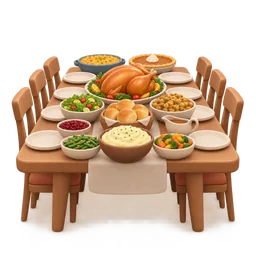
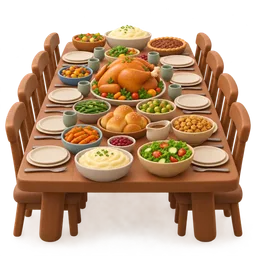
feat(mobile): the full set of 17 stamp renders

diff --git a/projectfood-mobile/src/data/stampImages.generated.ts b/projectfood-mobile/src/data/stampImages.generated.ts
@@ -12,10 +12,12 @@ export const STAMP_IMAGES: Record<string, ImageSourcePropType> = {
   grain_train: require('@/assets/stamps/grain_train.webp'),
   bubbly: require('@/assets/stamps/bubbly.webp'),
   superfood: require('@/assets/stamps/superfood.webp'),
+  tomato_family: require('@/assets/stamps/tomato_family.webp'),
   rainbow: require('@/assets/stamps/rainbow.webp'),
   big_dinner: require('@/assets/stamps/big_dinner.webp'),
   table_talk: require('@/assets/stamps/table_talk.webp'),
   family_of_thirty: require('@/assets/stamps/family_of_thirty.webp'),
   regulars: require('@/assets/stamps/regulars.webp'),
+  full_table: require('@/assets/stamps/full_table.webp'),
   curious: require('@/assets/stamps/curious.webp'),
 };
